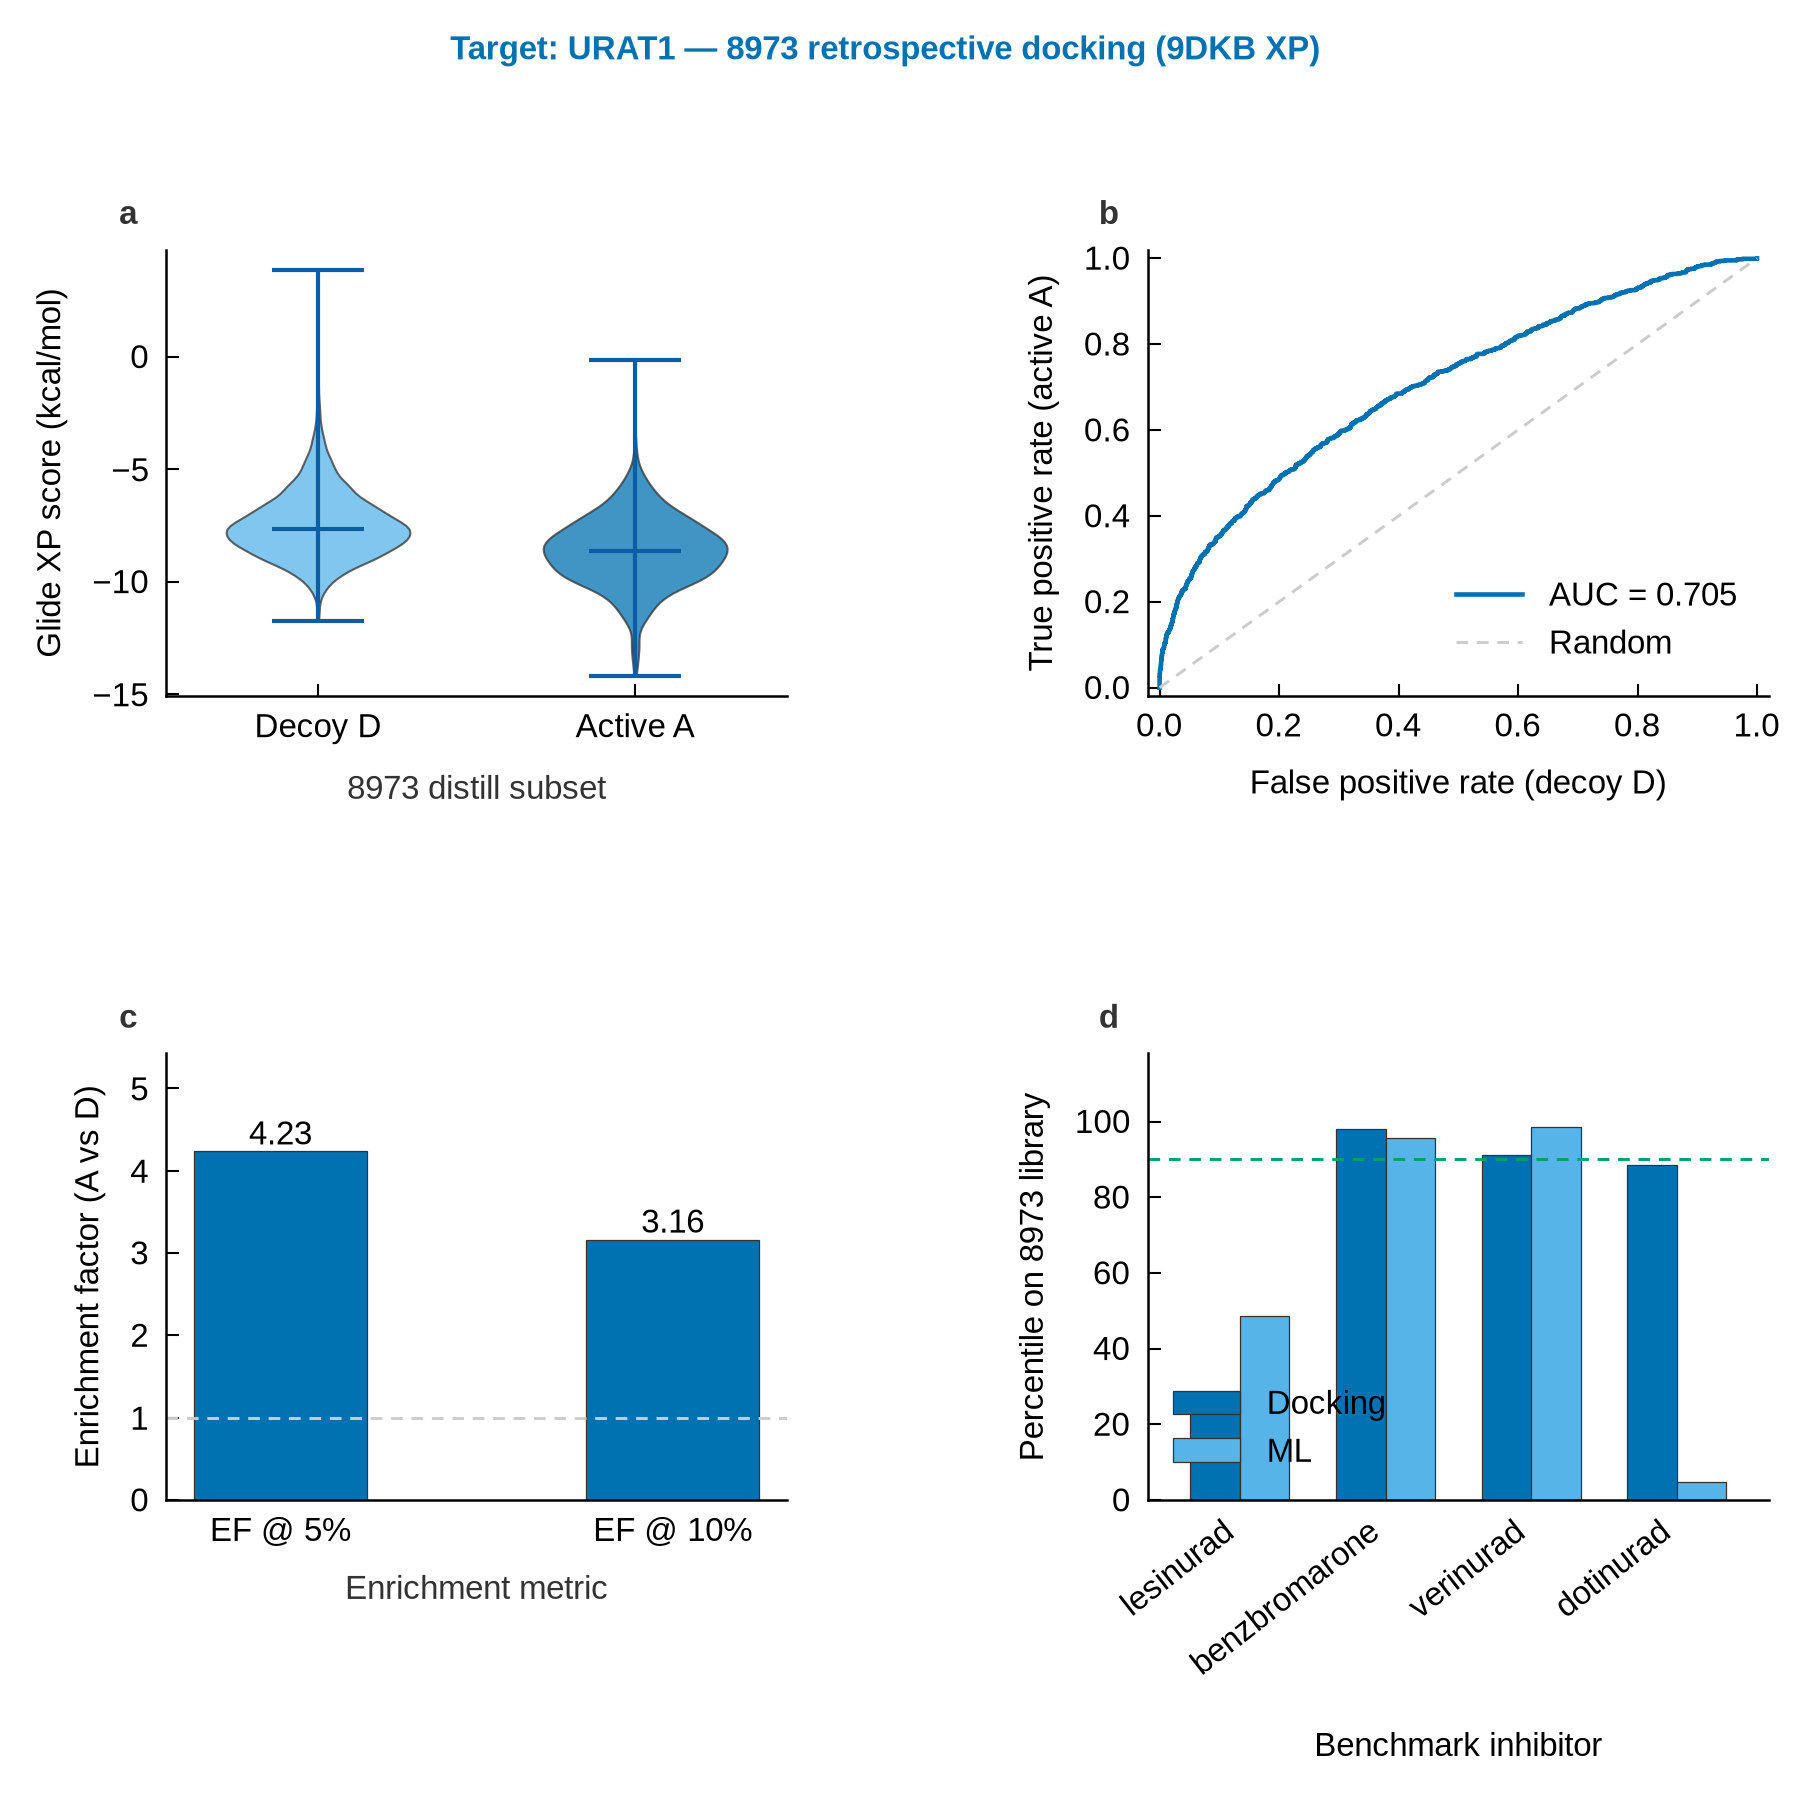
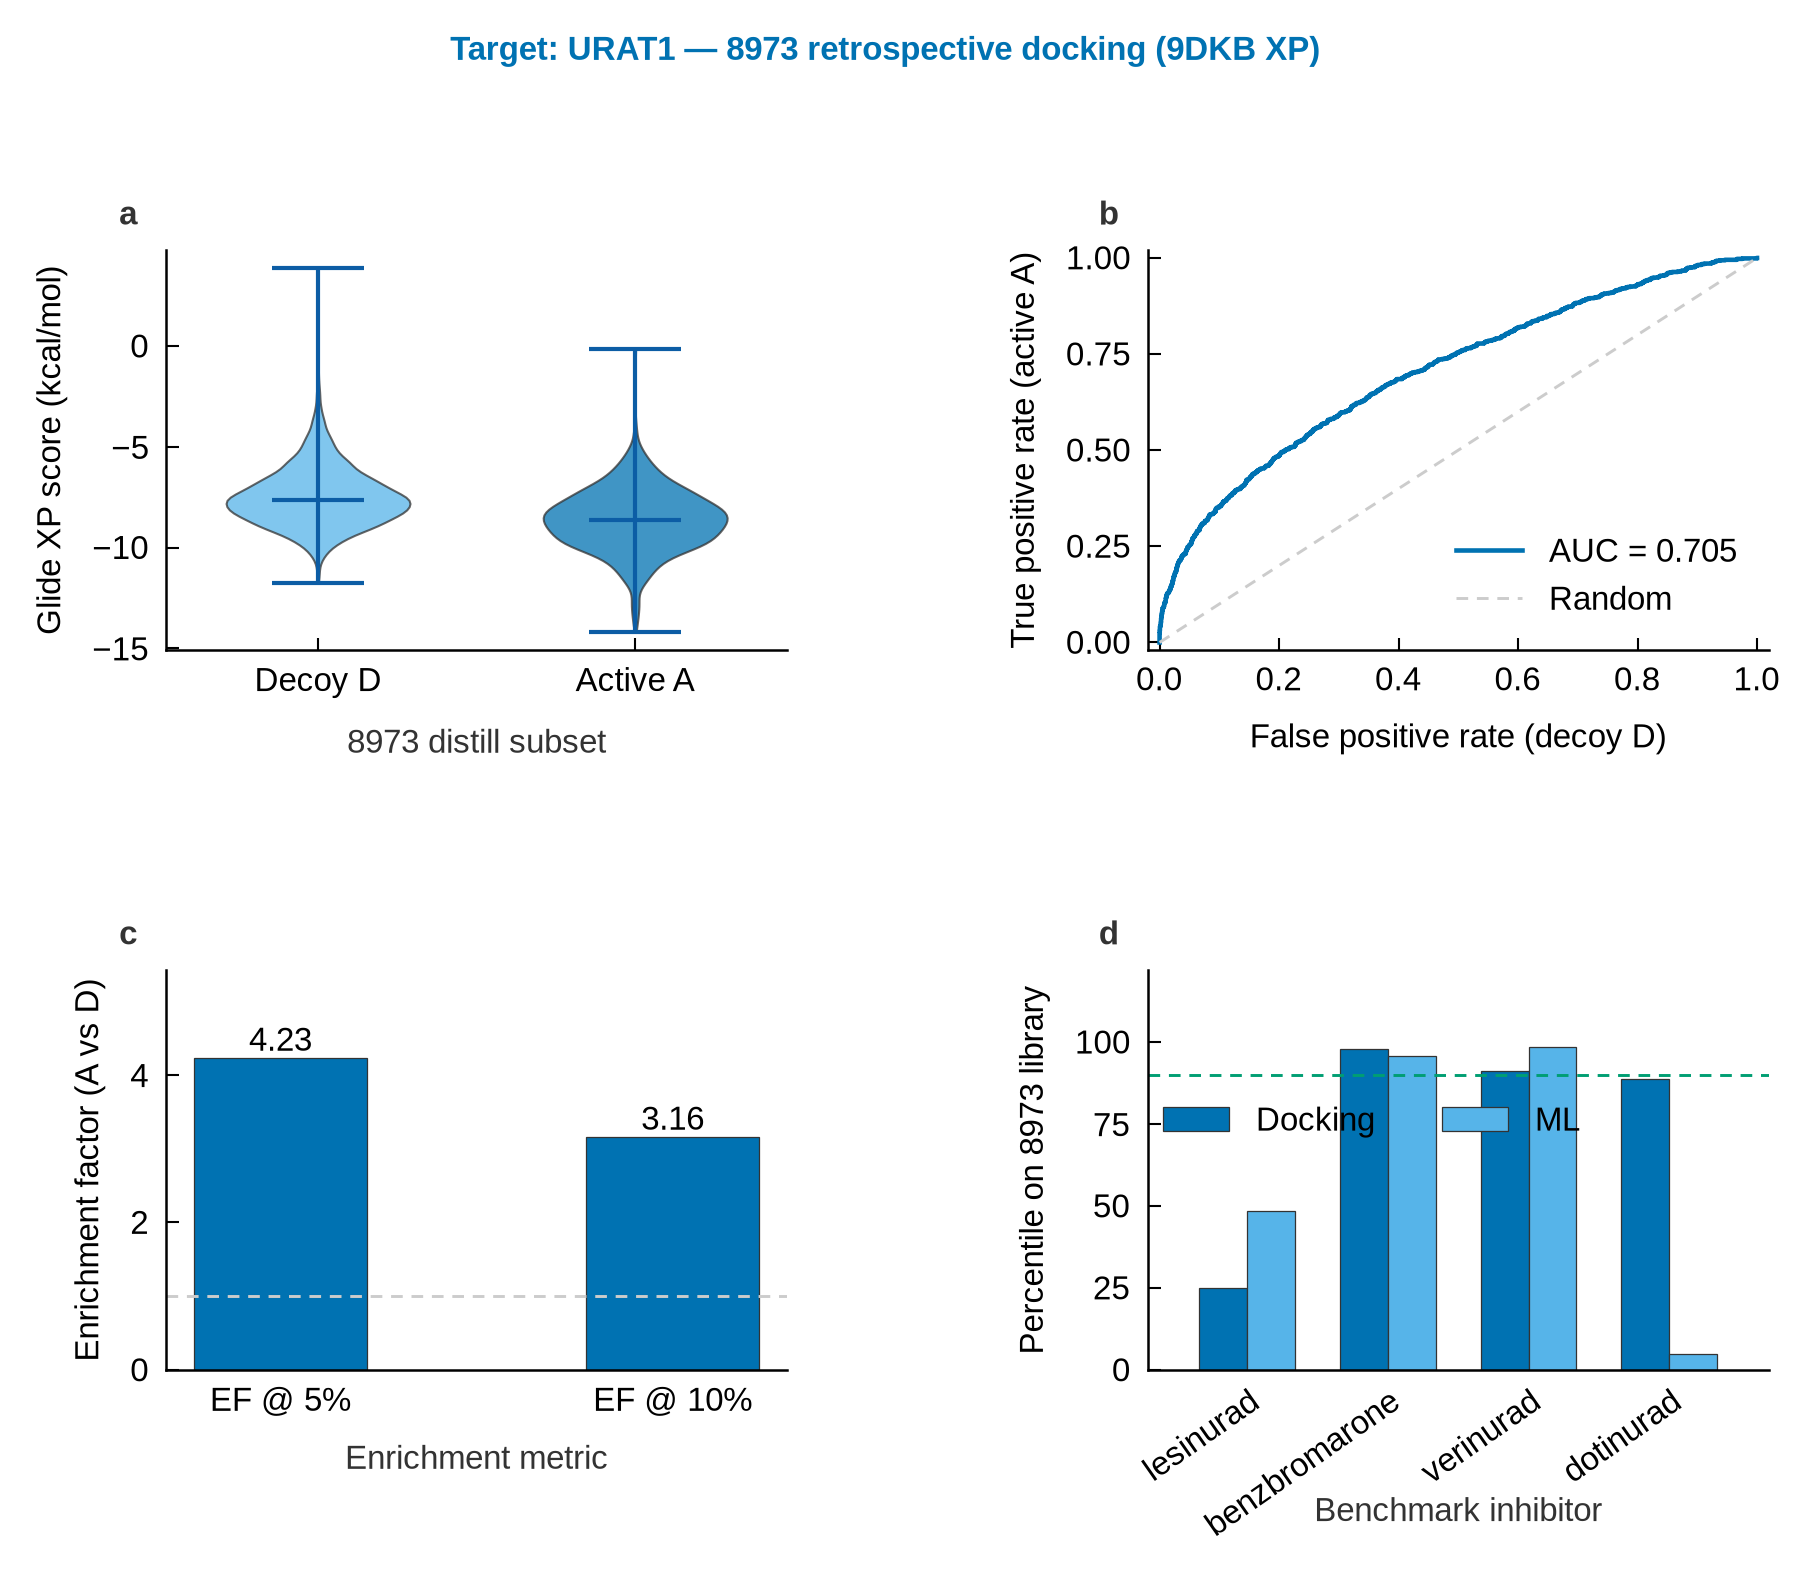
Fix Fig03d label overlap: legend in plot gap, spaced x-axis title

diff --git a/URAT1_NLRP3_DualTarget_AIDD_Project/scripts/plot_available_figures.py b/URAT1_NLRP3_DualTarget_AIDD_Project/scripts/plot_available_figures.py
@@ -43,6 +43,7 @@ from jmm_style import (  # noqa: E402
     legend_below,
     legend_lower_left,
     legend_lower_right,
+    legend_upper_center,
     save_figure,
     set_axis_labels,
     subplot_xlabel_centered,
@@ -253,12 +254,13 @@ def plot_urat1_benchmark(bench: pd.DataFrame) -> dict:
     ax.bar(x + w / 2, bench["ml_percentile_vs_8973"], width=w, label="URAT1 ML", color=URAT1_LIGHT, edgecolor=NEUTRAL, linewidth=0.3)
     ax.axhline(90, color=THRESHOLD, linestyle=(0, (4, 3)), linewidth=0.7)
     ax.set_xticks(x)
-    ax.set_xticklabels(bench["compound"], rotation=40, ha="right")
+    ax.set_xticklabels(bench["compound"], rotation=42, ha="center", rotation_mode="anchor")
+    ax.tick_params(axis="x", pad=7)
     clean_axes(ax)
     set_axis_labels(ax, "Benchmark URAT1 inhibitor", "Percentile on 8973 library")
-    ax.set_ylim(0, 115)
-    legend_below(ax, ncol=2, y=-0.38)
-    fig.subplots_adjust(**{**MARGIN_WIDE_X, "bottom": 0.34})
+    ax.set_ylim(0, 122)
+    legend_upper_center(ax, ncol=2, y=0.99)
+    fig.subplots_adjust(**{**MARGIN_WIDE_X, "bottom": 0.30})
     paths = save_figure(fig, "urat1_fig03d_benchmark_ml_vs_docking", "urat1")
     return {"id": "urat1_fig03d", "target": "URAT1", "description": "Four-drug ML vs docking recovery", **paths}
 
@@ -494,17 +496,27 @@ def plot_fig03_composite(dock: pd.DataFrame, summary: dict, bench: pd.DataFrame)
     ax.bar(x + w / 2, bench["ml_percentile_vs_8973"], width=w, color=URAT1_LIGHT, label="ML", edgecolor=NEUTRAL, linewidth=0.3)
     ax.axhline(90, color=THRESHOLD, linestyle=(0, (4, 3)), linewidth=0.7)
     ax.set_xticks(x)
-    ax.set_xticklabels(bench["compound"], rotation=38, ha="right")
+    ax.set_xticklabels(bench["compound"], rotation=35, ha="right", rotation_mode="anchor")
+    ax.tick_params(axis="x", pad=4)
     clean_axes(ax)
-    set_axis_labels(ax, "Benchmark inhibitor", "Percentile on 8973 library", xpad=12, ypad=6)
-    ax.set_ylim(0, 118)
-    ax.margins(x=0.08)
-    legend_lower_left(ax, ncol=1, x=0.02, y=0.04)
+    ax.set_xlabel("")
+    set_axis_labels(ax, "", "Percentile on 8973 library", ypad=6)
+    ax.set_ylim(0, 122)
+    ax.margins(x=0.10)
+    ax.legend(
+        loc="center",
+        bbox_to_anchor=(0.36, 0.62),
+        ncol=2,
+        fontsize=FONT_SIZE_PT,
+        frameon=False,
+        borderaxespad=0.0,
+    )
 
-    fig.subplots_adjust(**{**MARGIN_COMPOSITE, "top": 0.86, "bottom": 0.19, "left": 0.15, "right": 0.93, "hspace": 0.80, "wspace": 0.58})
+    fig.subplots_adjust(**{**MARGIN_COMPOSITE, "top": 0.86, "bottom": 0.26, "left": 0.15, "right": 0.93, "hspace": 0.80, "wspace": 0.58})
     apply_panel_tags(fig, axes, ("a", "b", "c", "d"))
     subplot_xlabel_centered(fig, axes[0, 0], "8973 distill subset", pad=0.042)
     subplot_xlabel_centered(fig, axes[1, 0], "Enrichment metric", pad=0.040)
+    subplot_xlabel_centered(fig, axes[1, 1], "Benchmark inhibitor", pad=0.028, tick_clearance=0.040)
     paths = save_figure(fig, "fig03_urat1_retrospective_composite", "main", tight=False)
     return {"id": "fig03_composite", "target": "URAT1", "description": "Main Fig 3 composite (URAT1 retrospective)", **paths}
 
@@ -544,7 +556,7 @@ def main() -> None:
         "style": {
             "font": "Arial 8 pt",
             "grid": "none",
-            "notes": "v5: aligned axis labels, unified panel tags/legends, hbar grid fix, print margins",
+            "notes": "v5.1: Fig03d legend above bars; centered x-axis title",
         },
         "figures": entries,
     }

diff --git a/URAT1_NLRP3_DualTarget_AIDD_Project/figures/jmm_style.py b/URAT1_NLRP3_DualTarget_AIDD_Project/figures/jmm_style.py
@@ -171,12 +171,40 @@ def legend_lower_right(ax, handles=None, labels=None, ncol: int = 1, x: float = 
         ax.legend(**kwargs)
 
 
-def subplot_xlabel_centered(fig: plt.Figure, ax, text: str, pad: float = 0.028) -> None:
+def legend_upper_center(ax, handles=None, labels=None, ncol: int = 2, y: float = 0.97) -> None:
+    """Legend in the upper margin of the axes, clear of bar tops."""
+    kwargs = dict(
+        loc="upper center",
+        bbox_to_anchor=(0.5, y),
+        ncol=ncol,
+        fontsize=FONT_SIZE_PT,
+        frameon=False,
+        borderaxespad=0.0,
+    )
+    if handles is not None:
+        ax.legend(handles=handles, labels=labels, **kwargs)
+    elif labels is not None:
+        ax.legend(labels=labels, **kwargs)
+    else:
+        ax.legend(**kwargs)
+
+
+def subplot_xlabel_centered(
+    fig: plt.Figure, ax, text: str, pad: float = 0.028, tick_clearance: float = 0.0
+) -> None:
     """Center an x-axis title under one subplot (not under a single tick)."""
     ax.set_xlabel("")
     fig.canvas.draw()
     bb = ax.get_position()
-    fig.text(bb.x0 + bb.width / 2, bb.y0 - pad, text, ha="center", va="top", fontsize=FONT_SIZE_PT, color=NEUTRAL)
+    fig.text(
+        bb.x0 + bb.width / 2,
+        bb.y0 - pad - tick_clearance,
+        text,
+        ha="center",
+        va="top",
+        fontsize=FONT_SIZE_PT,
+        color=NEUTRAL,
+    )
 
 
 def legend_below(ax, handles=None, labels=None, ncol: int = 2, y: float = -0.24) -> None:
